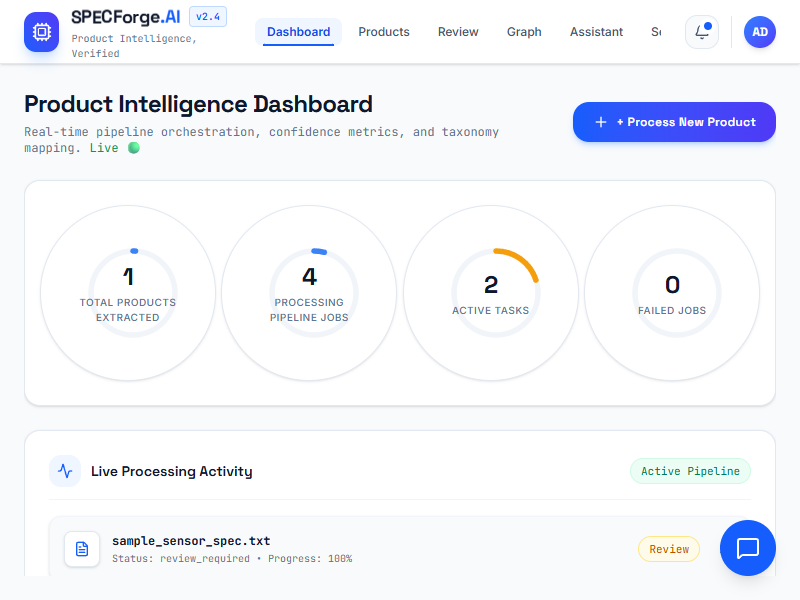
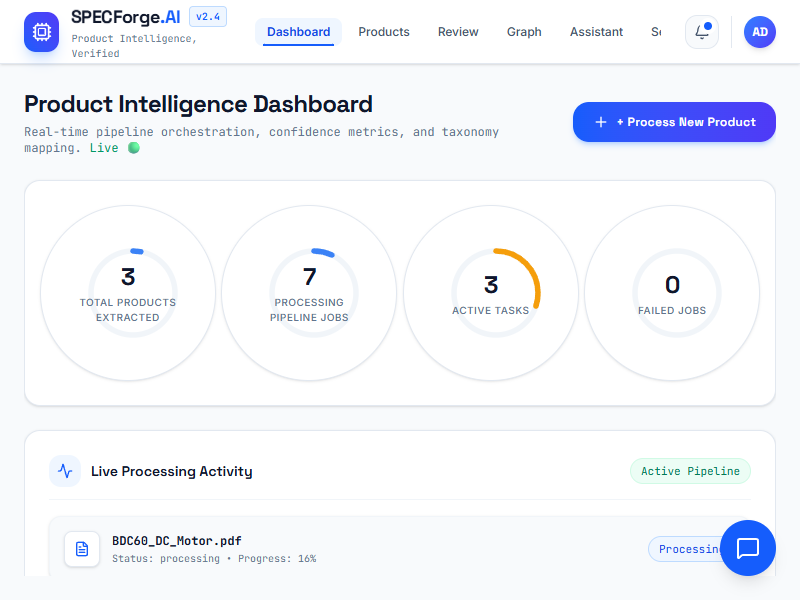
Fix Vite proxy for Node 17+ localhost resolution, restore WebSocket proxy, and fix Windows static files MIME type handling

diff --git a/frontend/debug_browser.js b/frontend/debug_browser.js
@@ -7,9 +7,14 @@ import puppeteer from 'puppeteer';
   page.on('console', msg => console.log('PAGE LOG:', msg.text()));
   page.on('pageerror', error => console.log('PAGE ERROR:', error.message));
   page.on('requestfailed', request => console.log('REQUEST FAILED:', request.url(), request.failure().errorText));
+  page.on('response', async response => {
+    if (response.url().includes('/api/')) {
+        console.log('API RESPONSE:', response.url(), await response.text());
+    }
+  });
 
   console.log("Navigating to app...");
-  await page.goto('http://localhost:8000/app/dashboard', { waitUntil: 'networkidle0' });
+  await page.goto('http://localhost:5173/app/dashboard', { waitUntil: 'networkidle0' });
   
   console.log("Waiting 3s...");
   await new Promise(r => setTimeout(r, 3000));

diff --git a/frontend/vite.config.js b/frontend/vite.config.js
@@ -8,8 +8,7 @@ export default defineConfig({
   server: {
     proxy: {
       '/api': {
-        target: 'http://localhost:8000',
-        changeOrigin: true,
+        target: 'http://127.0.0.1:8000',
         ws: true,
       },
     },

diff --git a/backend/main.py b/backend/main.py
@@ -1,4 +1,9 @@
 import os
+import mimetypes
+mimetypes.add_type('application/javascript', '.js')
+mimetypes.add_type('text/css', '.css')
+mimetypes.add_type('image/svg+xml', '.svg')
+
 from dotenv import load_dotenv
 load_dotenv()
 import uuid
@@ -450,6 +455,12 @@ if os.path.exists(frontend_dist_path):
     
     @app.get("/{full_path:path}")
     async def serve_frontend(full_path: str):
+        if "." in os.path.basename(full_path):
+            file_path = os.path.join(frontend_dist_path, full_path)
+            if os.path.exists(file_path):
+                return FileResponse(file_path)
+            raise HTTPException(status_code=404, detail="File not found")
+            
         index_path = os.path.join(frontend_dist_path, "index.html")
         if os.path.exists(index_path):
             return FileResponse(index_path)
